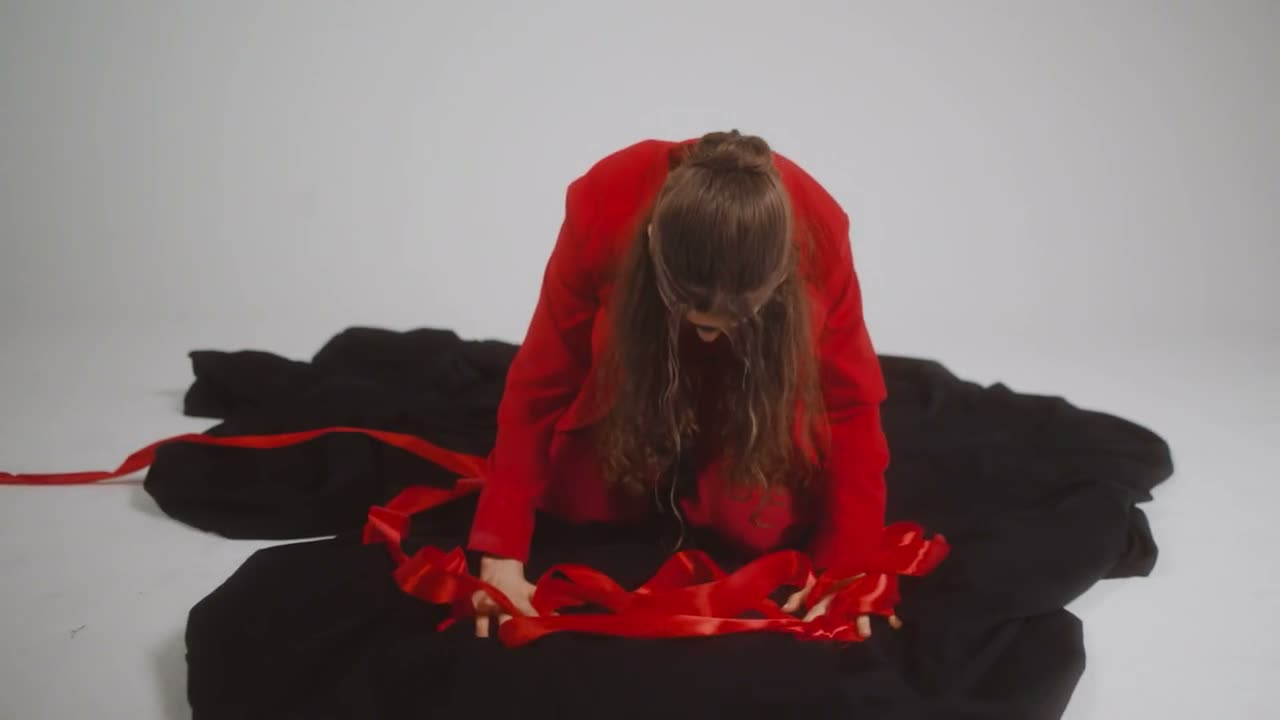
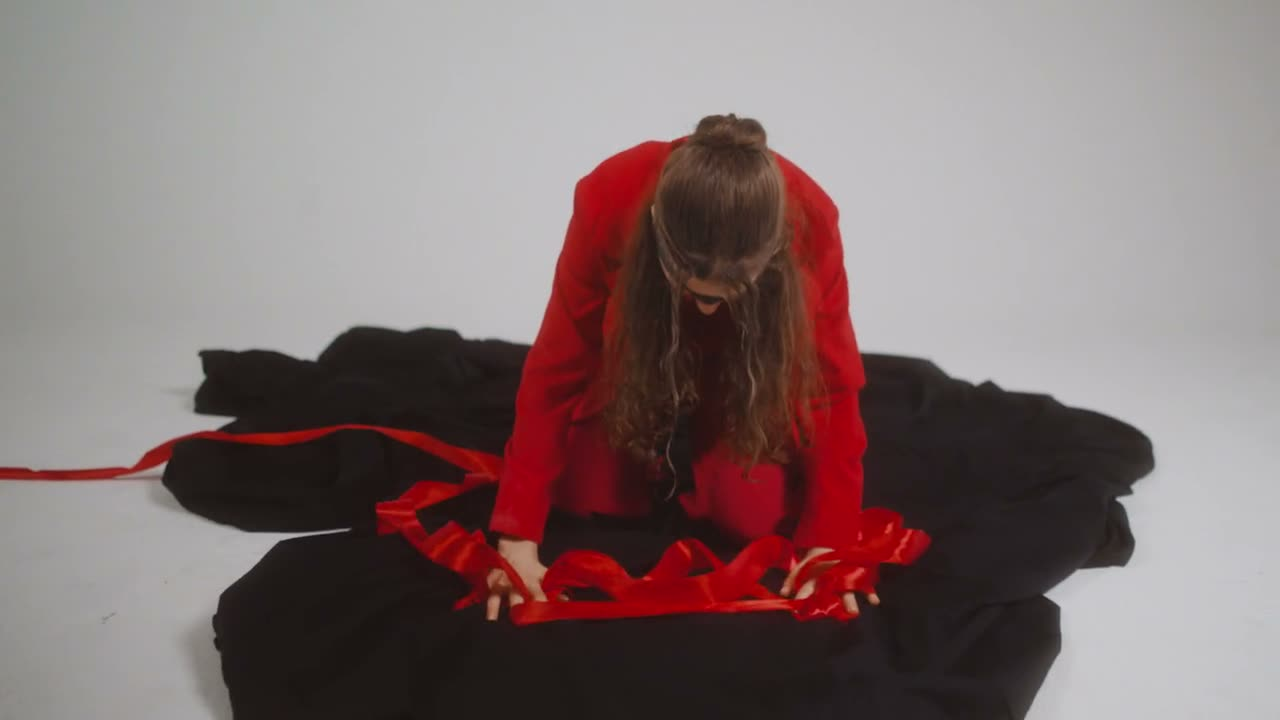
regenerate posters from the restored masters
The masters were re-supplied at higher quality than the ones encoded earlier
(Tempo is an 883 MB source rather than 209 MB), so the 720p re-encodes and the
poster frames were regenerated from them. 2.05 GB -> 157 MB, all H.264, all
+faststart, durations matching the sources.

Three poster frames changed as a result. The mp4s themselves are gitignored.

Masters have been removed from public/video/ — express.static was serving them,
and `curl -r 0-1023 '/video/CHRUST%20-%20Tempo.mp4'` returned 206 for an 883 MB
file. They are kept in ~/Video/CHRUST/, verified present before deleting. That
path is now recorded in CLAUDE.md, along with the warning never to park a master
inside public/.

Verified: masters 404, all five served videos 206, zero video bytes fetched on
page load, carousel + indicator dots + IntersectionObserver all still correct,
no console errors.

diff --git a/CLAUDE.md b/CLAUDE.md
@@ -41,7 +41,8 @@ Source maps are intentionally not generated: the old `public/main.css.map` embed
   - The language selector is a Bootstrap dropdown (`#langChangeButton` / `#langMenu`). It is also a `.nav-link`, so `setNavListeners()` skips `.dropdown-toggle` — otherwise collapsing the mobile navbar would tear the dropdown off screen as it opened.
   - `#langMenu` is themed by hand through `--bs-dropdown-*` variables. `data-bs-theme="dark"` on the navbar does nothing because `$enable-dark-mode: false`, so Bootstrap never compiled those rules and the menu would render as a white box.
 - **Video carousel** (`#videos`): five `<video preload="none" poster="…">` in a Bootstrap carousel. Playback is driven by `slide.bs.carousel` / `slid.bs.carousel` — **not** by click handlers on the arrows, because indicator dots and swipes must also pause the outgoing video. An `IntersectionObserver` pauses everything when the section scrolls out of view.
-  - The served files are the `*_720.mp4` / `*_web.mp4` H.264 re-encodes, ~150 MB in total. The 1.12 GB original masters were deleted from `public/video/` and are **not** recoverable from git — they were gitignored while they existed.
+  - The served files are the `*_720.mp4` / `*_web.mp4` H.264 re-encodes, ~157 MB in total. The masters are **not** kept here — they live in `~/Video/CHRUST/TELEDYSKI/`. Never leave a master inside `public/`: `express.static` will happily serve an 883 MB file to anyone who guesses the URL.
+  - `public/video/` is gitignored in full, so **the re-encodes must be copied to the server with scp/rsync** — they never arrive via `git pull`.
   - Re-encode with `libx264 -crf 23 -preset slow -pix_fmt yuv420p -movflags +faststart`. Keep `+faststart`: without it the `moov` index sits after the media data and a player must round-trip to the end of the file before the first frame.
   - Do not reintroduce HEVC. `chrust_podjaworem.mp4` was HEVC and reported `videoWidth = 0` in Chrome; Firefox never decodes HEVC in MP4.
 - **Styling** (`src/main.scss`): Bootstrap variable overrides first, custom rules next, and `@import "../node_modules/bootstrap/scss/bootstrap"` **last, on the final line**. Consequences:
